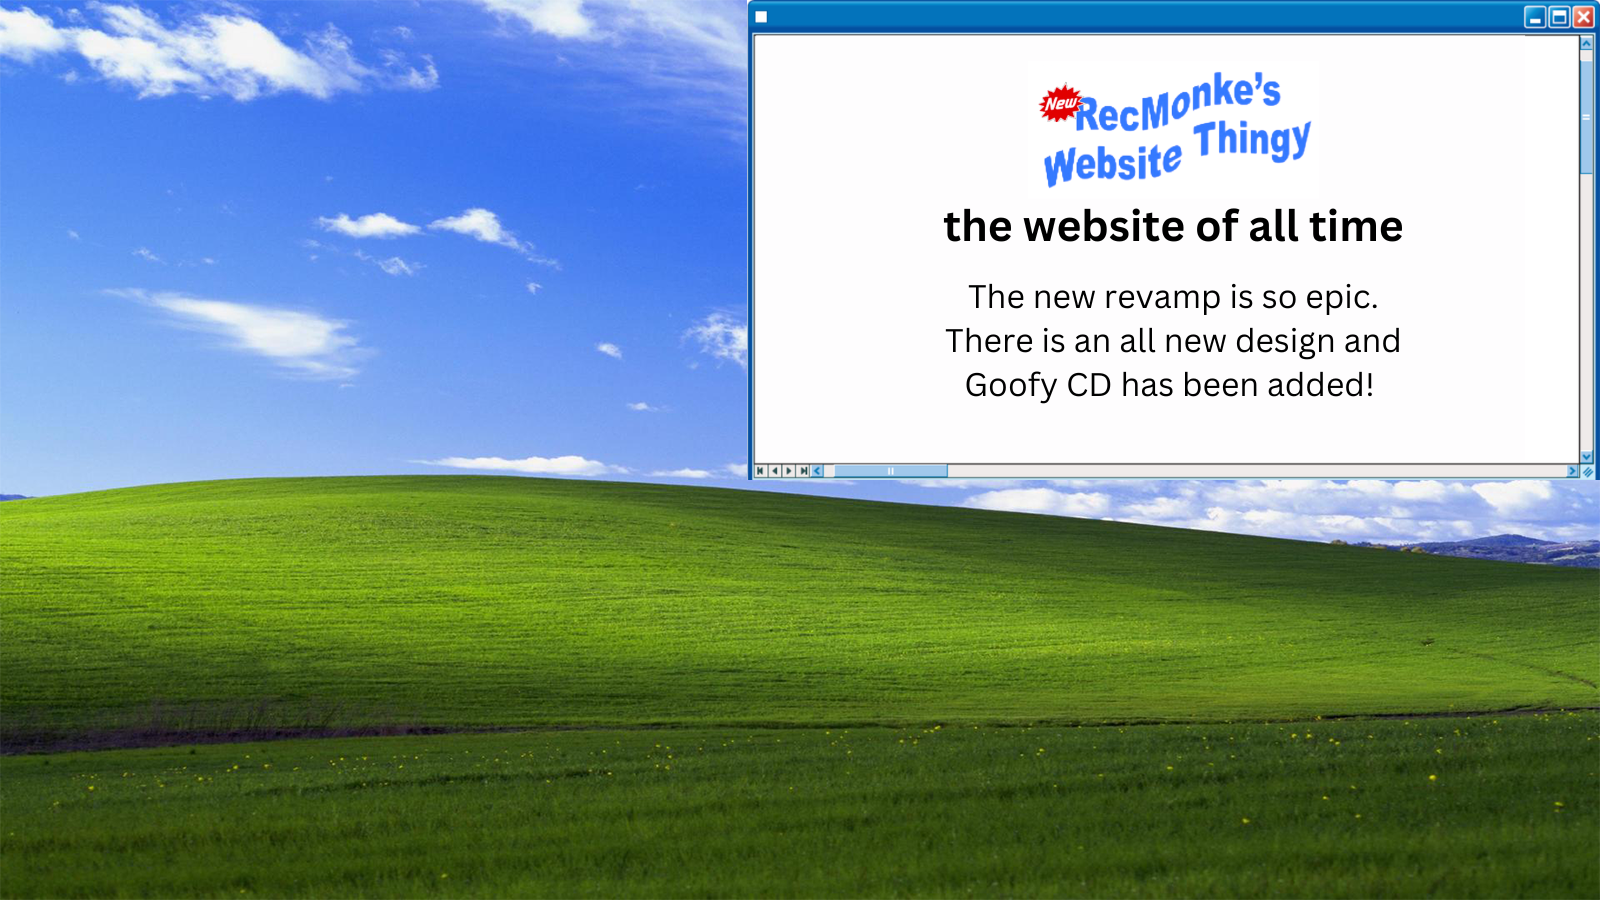
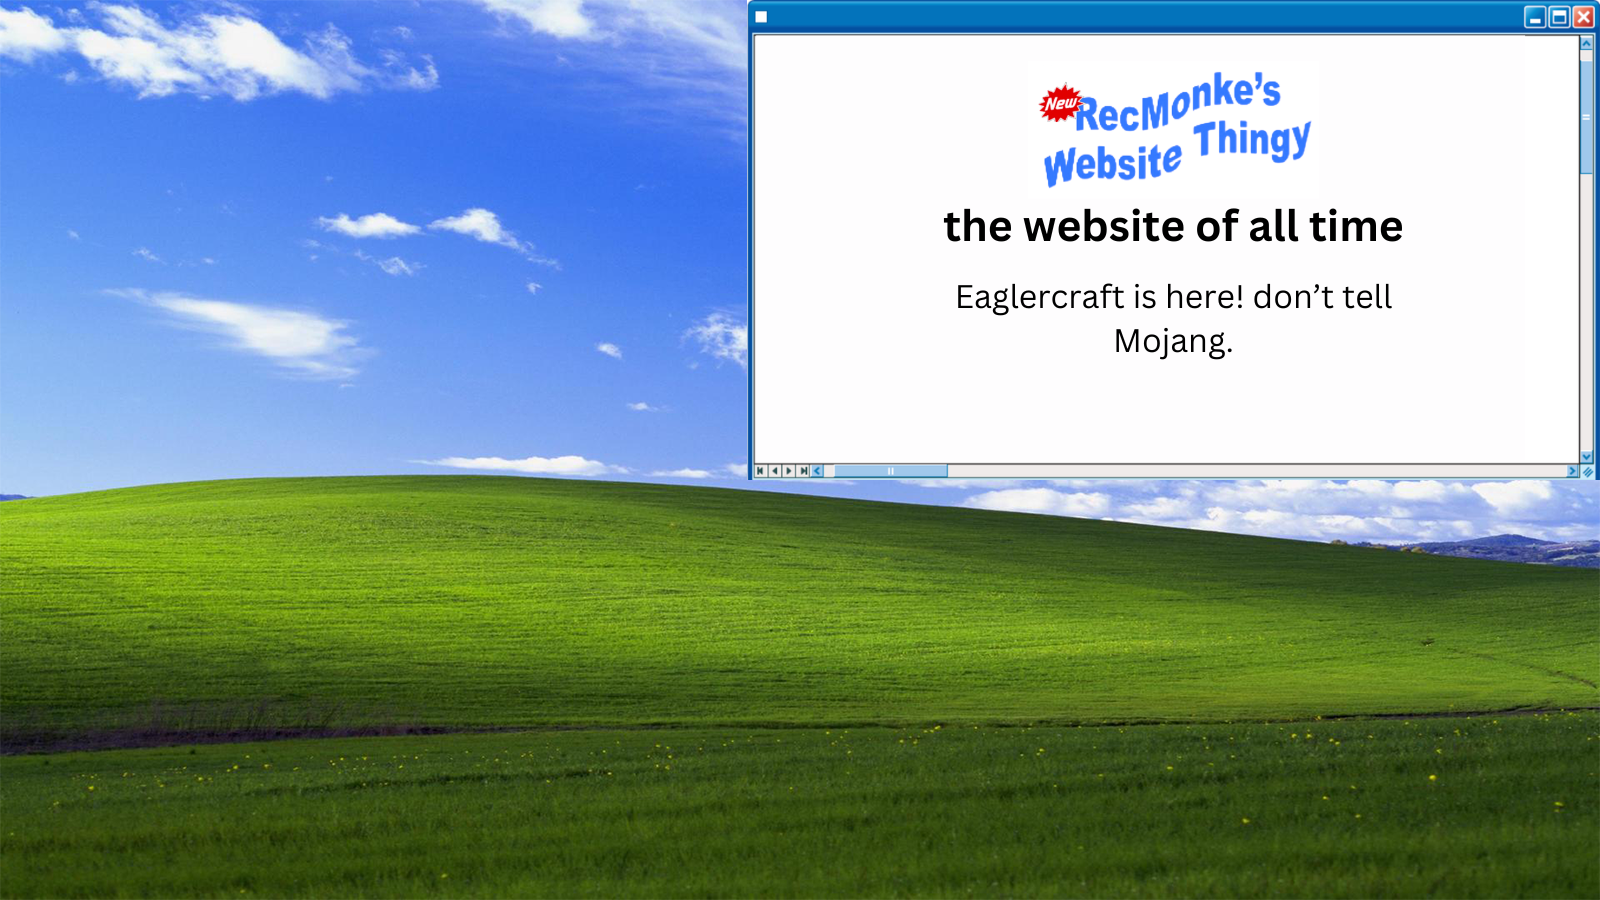
update
new music soon

Changed region(s): [[0.5938, 0.3111, 0.875, 0.4356]]

diff --git a/eagler.html b/eagler.html
@@ -1,0 +1,25 @@
+<!DOCTYPE html>
+<html lang="en">
+  <head>
+    <title>You are leaving recmonke.github.io to play Eaglercraft</title>
+    <link rel="stylesheet" href="https://unpkg.com/xp.css" />
+    <link rel="shortcut icon" type="image/png" href="favicon.png">
+	<link rel="icon" type="image/png" href="/images/favicon.png">
+  </head>
+  <body>
+    <div class="window" style="width: 1200px">
+        <div class="title-bar">
+          <div class="title-bar-text">You are leaving recmonke.github.io to play Eaglercraft</div>
+          <div class="title-bar-controls">
+            <button aria-label="Minimize"></button>
+            <button aria-label="Maximize"></button>
+            <a href="home.html"><button aria-label="Close"></button></a> 
+          </div>
+        </div>
+        <div class="window-body">
+          <p>its literally minecraft 1.8 in a web browser. It includes shaders, hosting worlds, and servers. You can see a server list at </p> <a href="https://servers.eaglercraft.com/">Eaglercraft Server List</a> <br>
+          <img src="https://i.pinimg.com/originals/45/ae/f5/45aef5cc24a0402fc44cbeb9d63fdee6.png" width="500" height="500"> <a href="https://eaglercraft1-8.github.io/"><button>Continue</button></a>
+        </div>
+      </div>
+  </body>
+</html>

diff --git a/home.html b/home.html
@@ -126,8 +126,8 @@
 	</div>
 
 	<div class="icon ">
-		<a href="#"><img class="shortcut" src="img/Shortcut.png"><img class="icon " src="img/CD.png"></a><br />
-		coming soon
+		<a href="eagler.html"><img class="shortcut" src="img/Shortcut.png"><img class="icon " src="https://i.pinimg.com/originals/45/ae/f5/45aef5cc24a0402fc44cbeb9d63fdee6.png"></a><br />
+		Eaglercraft
 	</div>
 
 	<br />
